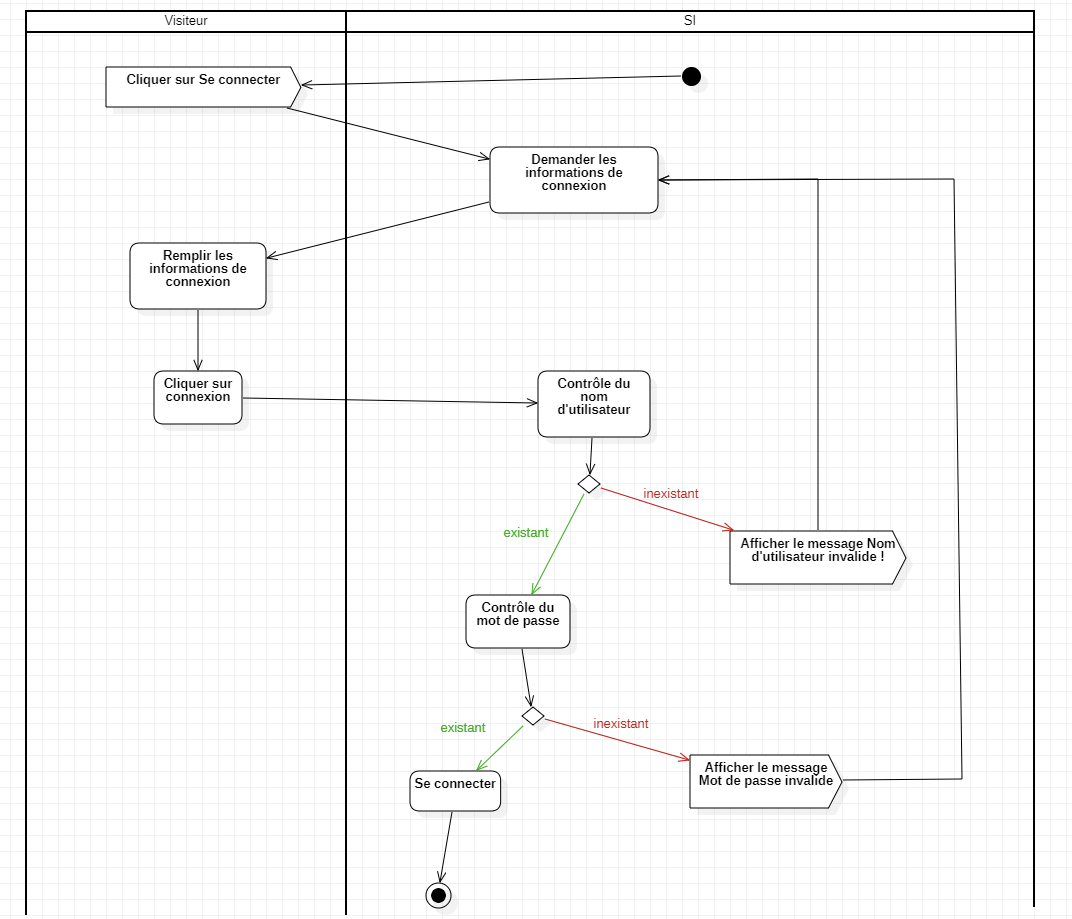
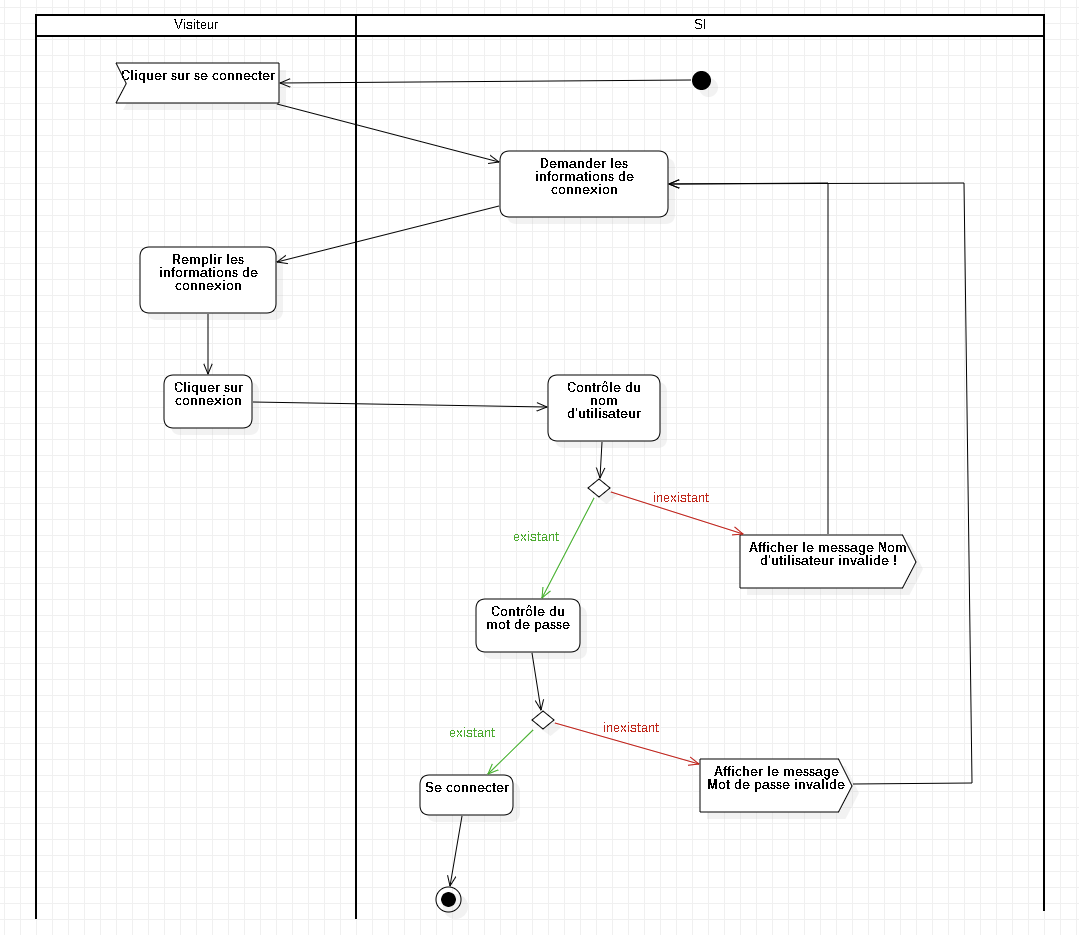
Retouches img backend

diff --git a/Backend.html b/Backend.html
@@ -58,10 +58,15 @@
     </section>
 
     <section>
-        <h2>Diagramme de séquence: Evenement indésirable</h2>
-        <img src="img/sequence-evenement.png" alt="Diagramme de séquence: évenement indésirable">
+        <h2>Diagramme d'activité 2: Evenement indésirable</h2>
+        <img src="img/activite-evenement2.png" alt="Diagramme d'activité 2: évenement indésirable">
     </section>
     </div>
+
+    <section>
+      <h2>Diagramme de séquence: Evenement indésirable</h2>
+      <img src="img/sequence-evenement.png" alt="MCD">
+    </section>
 
     <section>
         <h2>MCD</h2>
